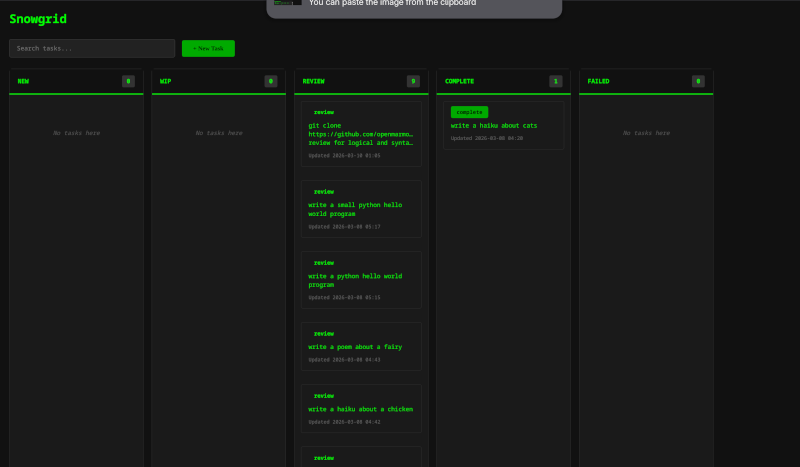
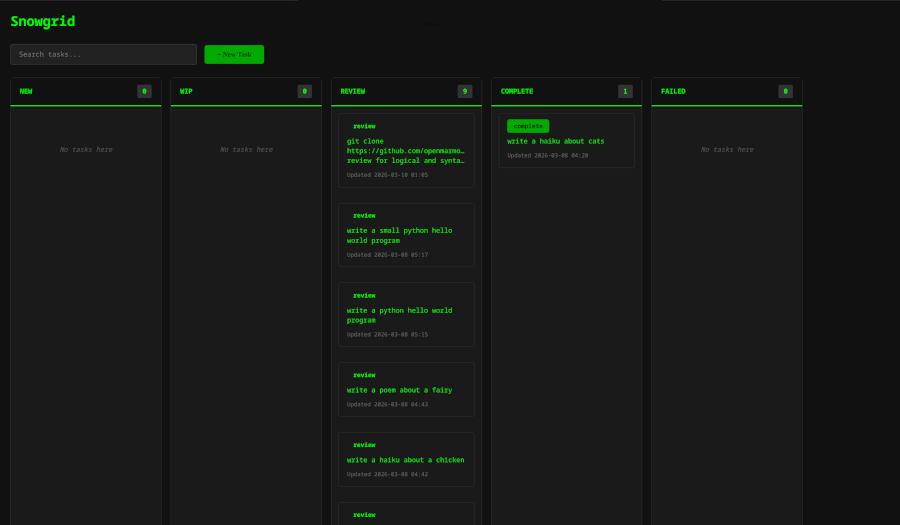
update

diff --git a/README.md b/README.md
@@ -12,6 +12,8 @@ Snowgrid is a distributed task management system that combines a Kanban-style bo
 
 A Flask-based web interface for managing tasks via a horizontal Kanban board.
 
+![Board Interface](/screenshots/snowgrid_board.png "Snowgrid Board")
+
 **Features:**
 - Task creation and management
 - Status tracking: new → wip → review → complete/failed
@@ -90,9 +92,6 @@ Configuration is stored in `agents/shard/config.json`.
                     └──────────────┘
 ```
 
-## Screenshots
-
-![Board Interface](/screenshots/snowgrid_board.png "Snowgrid Board")
 ![Task View](/screenshots/snowgrid_task.png "Snowgrid Task")
 
 ## Workflow
